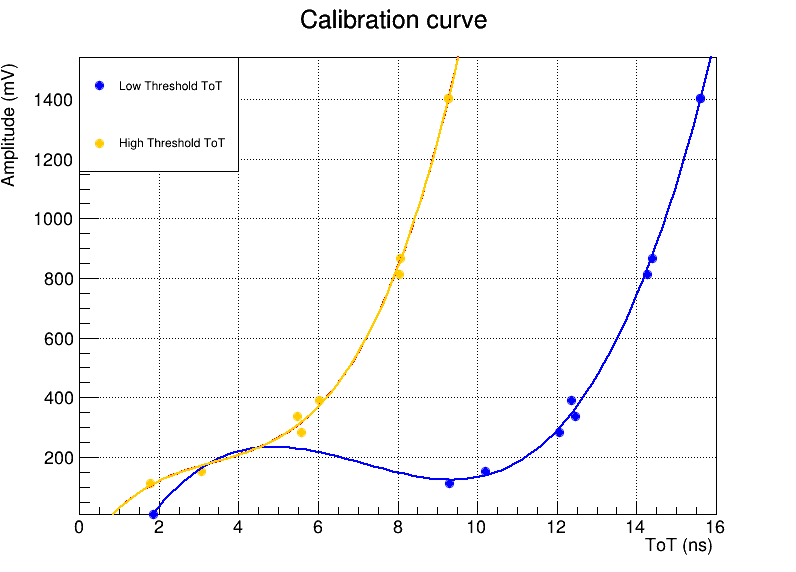
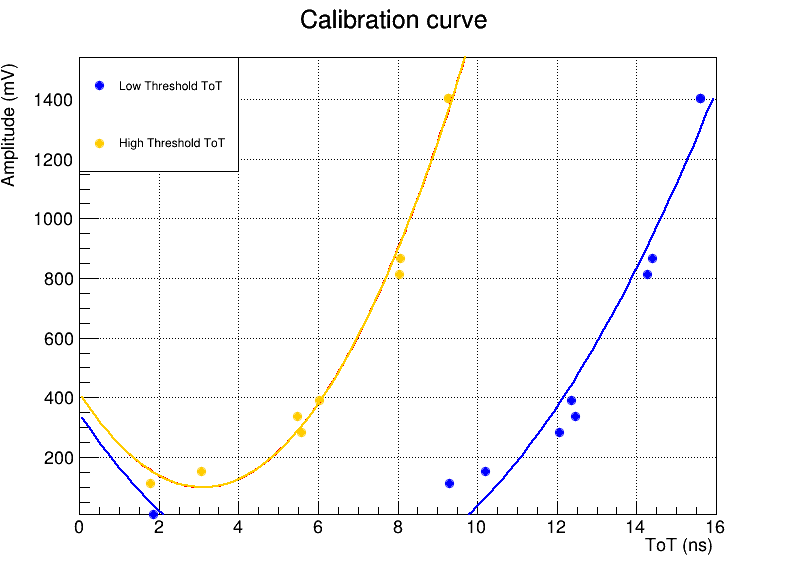
new commit

diff --git a/time_distribution_graph.C b/time_distribution_graph.C
@@ -274,8 +274,8 @@ int main() {
     legend->Draw();
 
     // Esegui il fitting dei dati
-    TF1 *fit_low = new TF1("fit_low", "pol3", 0, 16); // Fitting con un polinomio di terzo grado
-    TF1 *fit_high = new TF1("fit_high", "pol3", 0, 16);
+    TF1 *fit_low = new TF1("fit_low", "pol2", 0, 16); // Fitting con un polinomio di terzo grado
+    TF1 *fit_high = new TF1("fit_high", "pol2", 0, 16);
 
     gr_low->Fit(fit_low);
     gr_high->Fit(fit_high);
@@ -290,7 +290,7 @@ int main() {
     fit_high->Draw("same");
 
     // Salva il grafico in un file
-    c1->SaveAs("N_vs_ToT_fit_file3.png");
+    c1->SaveAs("N_vs_ToT_fit_file4.png");
 
     // Pulizia della memoria
     delete gr_low;
